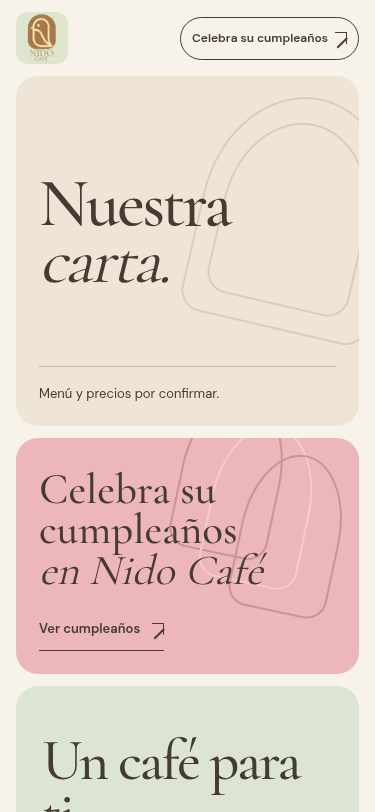
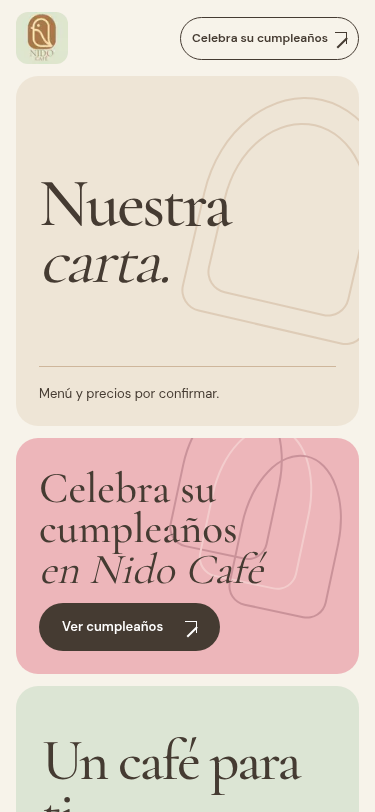
Make birthday promotion the main desktop panel

diff --git a/app/globals.css b/app/globals.css
@@ -45,14 +45,13 @@ h1 em, h2 em { font-weight: 400; }
 .header-cta span[aria-hidden], .button span[aria-hidden], .text-link span[aria-hidden] { display: inline-block; position: relative; flex: 0 0 12px; width: 12px; height: 12px; border-top: 1.5px solid currentColor; border-right: 1.5px solid currentColor; font-size: 0; line-height: 0; }
 .header-cta span[aria-hidden]::after, .button span[aria-hidden]::after, .text-link span[aria-hidden]::after { content: ""; position: absolute; top: 4px; right: -1px; width: 14px; height: 1.5px; background: currentColor; transform: rotate(-45deg); transform-origin: right center; }
 
-.mobile-menu, .mobile-hero-title { display: none; }
+.mobile-menu, .mobile-birthday-title { display: none; }
 
 .bento { display: grid; grid-template-columns: minmax(0, 1.75fr) minmax(330px, 1fr); grid-template-rows: repeat(2, minmax(280px, 304px)); gap: 15px; }
 .bento article { position: relative; overflow: hidden; border-radius: 26px; }
-.bento-main { grid-row: span 2; background: var(--sage); padding: clamp(32px, 4vw, 62px); display: flex; align-items: center; }
-.hero-copy { width: 100%; max-width: 650px; }
-.hero-copy h1 { font-size: clamp(56px, 5vw, 78px); line-height: .91; letter-spacing: -.04em; margin-bottom: 0; }
-.hero-copy h1 em { white-space: normal; }
+.bento-main { background: var(--sage); padding: 32px; display: flex; align-items: end; }
+.hero-copy { width: 100%; }
+.hero-copy h2 { font-size: clamp(43px, 3.2vw, 56px); line-height: .92; letter-spacing: -.04em; margin-bottom: 0; }
 .bento-menu { background: #eee5d6; padding: 27px 30px 30px; display: flex; flex-direction: column; justify-content: space-between; }
 .menu-ornament { position: absolute; width: 200px; height: 200px; right: 8%; top: 16%; border: 1px solid #a77a5070; border-radius: 50% 50% 12px 12px; display: grid; place-items: center; transform: rotate(9deg); opacity: .6; }
 .menu-ornament::before { content: ""; position: absolute; inset: 17px; border: 1px solid #a77a5070; border-radius: inherit; }
@@ -61,14 +60,14 @@ h1 em, h2 em { font-weight: 400; }
 .card-bottom h2 { margin-bottom: 0; font-size: clamp(40px, 3.6vw, 56px); line-height: .95; }
 .card-bottom .button { padding-inline: 17px; }
 
-.bento-birthday { background: var(--blush); padding: 32px; display: flex; align-items: end; }
-.birthday-content { position: relative; z-index: 1; max-width: 320px; }
-.birthday-content h2 { font-size: clamp(39px, 3.35vw, 54px); line-height: .94; margin-bottom: 17px; }
-.birthday-content h2 em { display: block; }
-.birthday-mark { position: absolute; right: 6%; top: -34px; width: 190px; height: 200px; transform: rotate(12deg); opacity: .66; }
-.birthday-mark span { position: absolute; border-radius: 50% 50% 20px 20px; border: 2px solid #8d5561; width: 100px; height: 160px; }
-.birthday-mark span:nth-child(2) { left: 35px; top: 23px; border-color: #fff5ee; }
-.birthday-mark span:nth-child(3) { left: 70px; top: 45px; border-color: #8d5561; }
+.bento-birthday { grid-row: span 2; background: var(--blush); padding: clamp(32px, 4vw, 62px); display: flex; align-items: center; }
+.birthday-content { position: relative; z-index: 1; max-width: 690px; }
+.birthday-content h1 { font-size: clamp(60px, 5.2vw, 88px); line-height: .92; letter-spacing: -.04em; margin-bottom: 30px; }
+.birthday-content h1 em, .birthday-content h2 em { display: block; }
+.birthday-mark { position: absolute; right: 8%; top: 6%; width: 310px; height: 330px; transform: rotate(12deg); opacity: .42; }
+.birthday-mark span { position: absolute; border-radius: 50% 50% 20px 20px; border: 2px solid #8d5561; width: 160px; height: 260px; }
+.birthday-mark span:nth-child(2) { left: 55px; top: 35px; border-color: #fff5ee; }
+.birthday-mark span:nth-child(3) { left: 110px; top: 70px; border-color: #8d5561; }
 .text-link { display: inline-flex; align-items: center; gap: 12px; min-height: 44px; border-bottom: 1px solid currentColor; font-size: 13px; font-weight: 600; }
 .text-link:hover { gap: 18px; }
 
@@ -96,7 +95,7 @@ h1 em, h2 em { font-weight: 400; }
   .desktop-nav { gap: 18px; font-size: 12px; }
   .brand span { font-size: 26px; }
   .bento { grid-template-columns: minmax(0, 1.4fr) minmax(300px, 1fr); }
-  .hero-copy h1 { font-size: clamp(55px, 6vw, 80px); }
+  .birthday-content h1 { font-size: clamp(56px, 6vw, 74px); }
   .card-bottom { display: block; }
   .card-bottom .button { margin-top: 12px; }
 }
@@ -127,12 +126,15 @@ h1 em, h2 em { font-weight: 400; }
   .card-bottom { display: flex; align-items: end; }
   .card-bottom h2 { font-size: 49px; }
   .card-bottom .button { margin: 0; }
-  .bento-birthday { order: 1; min-height: 231px; padding: 23px; }
-  .birthday-content h2 { font-size: 43px; max-width: 270px; }
-  .birthday-mark { right: -2%; opacity: .36; }
-  .bento-main { order: 2; min-height: 310px; padding: 36px 26px; }
-  .hero-copy h1 { display: none; }
-  .mobile-hero-title { display: block; font-size: clamp(59px, 11vw, 86px); line-height: .91; letter-spacing: -.04em; margin-bottom: 0; }
+  .bento-birthday { order: 1; min-height: 231px; padding: 23px; align-items: end; }
+  .desktop-birthday-title { display: none; }
+  .mobile-birthday-title { display: block; font-size: 43px; line-height: .94; margin-bottom: 14px; max-width: 270px; }
+  .birthday-mark { right: -2%; top: -34px; width: 190px; height: 200px; opacity: .36; }
+  .birthday-mark span { width: 100px; height: 160px; }
+  .birthday-mark span:nth-child(2) { left: 35px; top: 23px; }
+  .birthday-mark span:nth-child(3) { left: 70px; top: 45px; }
+  .bento-main { order: 2; min-height: 310px; padding: 36px 26px; align-items: center; }
+  .hero-copy h2 { font-size: clamp(59px, 11vw, 86px); line-height: .91; }
   .lower-grid { grid-template-columns: 1fr; gap: 12px; margin-block: 12px 70px; }
   .lower-card { min-height: 220px; padding: 27px; }
   .lower-card h2 { font-size: 55px; }
@@ -148,7 +150,7 @@ h1 em, h2 em { font-weight: 400; }
   .mobile-menu { min-height: 350px; padding: 23px; }
   .mobile-menu-body h1 { font-size: 68px; }
   .bento-birthday { min-height: 236px; }
-  .mobile-hero-title { font-size: 58px; }
+  .hero-copy h2 { font-size: 58px; }
 }
 
 @media (prefers-reduced-motion: reduce) {

diff --git a/app/page.tsx b/app/page.tsx
@@ -11,10 +11,12 @@ export default function HomePage() {
       </section>
 
       <section className="shell bento" aria-label="Nido Café: café y celebraciones">
-        <article className="bento-main">
-          <div className="hero-copy">
-            <h1 id="home-title">Un café para ti,<br /><em>diversión para ellos.</em></h1>
-            <h2 className="mobile-hero-title">Un café para ti,<br /><em>diversión para ellos.</em></h2>
+        <article className="bento-birthday">
+          <div className="birthday-mark" aria-hidden="true"><span /><span /><span /></div>
+          <div className="birthday-content">
+            <h1 className="desktop-birthday-title">Celebra su cumpleaños <em>en Nido Café</em></h1>
+            <h2 className="mobile-birthday-title">Celebra su cumpleaños <em>en Nido Café</em></h2>
+            <Link className="button button-dark" href="/cumpleanos">Ver cumpleaños <span aria-hidden="true">↗</span></Link>
           </div>
         </article>
 
@@ -26,11 +28,9 @@ export default function HomePage() {
           </div>
         </article>
 
-        <article className="bento-birthday">
-          <div className="birthday-mark" aria-hidden="true"><span /><span /><span /></div>
-          <div className="birthday-content">
-            <h2>Celebra su cumpleaños <em>en Nido Café</em></h2>
-            <Link className="text-link" href="/cumpleanos">Ver cumpleaños <span aria-hidden="true">↗</span></Link>
+        <article className="bento-main">
+          <div className="hero-copy">
+            <h2>Un café para ti,<br /><em>diversión para ellos.</em></h2>
           </div>
         </article>
       </section>
